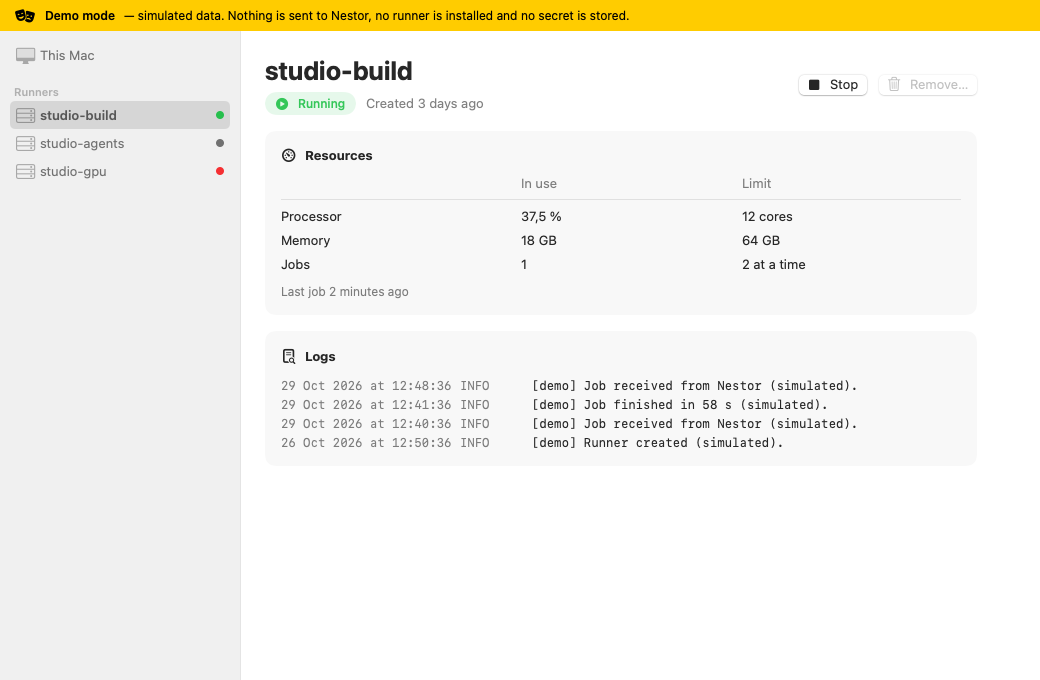
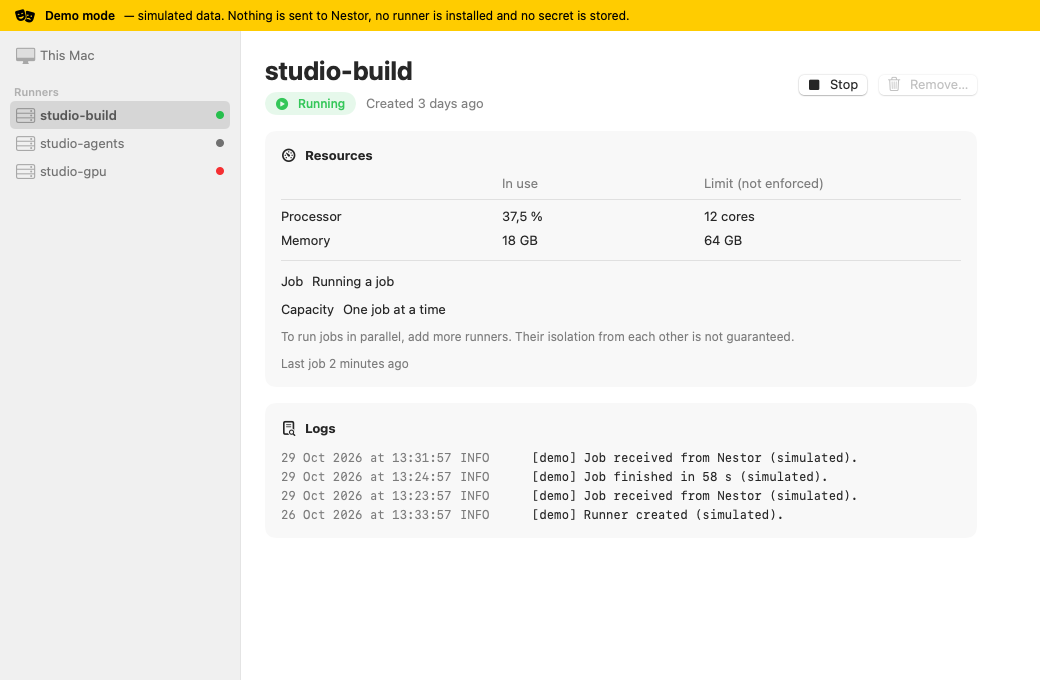
KCA-690: a runner takes one job at a time, as the Nestor runner does
The existing Nestor runner takes no new job while one is running, so the
"jobs at a time" setting, the concurrent-jobs limit and the active-jobs
counter are gone from the models, the add-runner form, the runner page,
the demo data and the tests. The runner page shows whether the runner
is running a job and a fixed "One job at a time" capacity; parallel work
means more runners, whose isolation is not guaranteed. Processor and
memory limits are labelled as not enforced in the demo. Docs and
screenshots updated.

diff --git a/apps/macos/Sources/RunnerManagerKit/Models.swift b/apps/macos/Sources/RunnerManagerKit/Models.swift
@@ -55,15 +55,16 @@ public enum RunnerState: String, Equatable, Sendable, CaseIterable {
 }
 
 /// Resource limits a runner is configured with. `nil` means no limit.
+///
+/// There is no setting for the number of jobs: the Nestor runner takes no new job while one is
+/// running. To run jobs in parallel, a machine runs several runners. A job may use several cores.
 public struct ResourceLimits: Equatable, Sendable {
     public var cpuCores: Int?
     public var memoryBytes: UInt64?
-    public var concurrentJobs: Int
 
-    public init(cpuCores: Int? = nil, memoryBytes: UInt64? = nil, concurrentJobs: Int = 1) {
+    public init(cpuCores: Int? = nil, memoryBytes: UInt64? = nil) {
         self.cpuCores = cpuCores
         self.memoryBytes = memoryBytes
-        self.concurrentJobs = concurrentJobs
     }
 }
 
@@ -71,12 +72,13 @@ public struct ResourceLimits: Equatable, Sendable {
 public struct ResourceUsage: Equatable, Sendable {
     public var cpuPercent: Double
     public var memoryBytes: UInt64
-    public var activeJobs: Int
+    /// Whether the runner is running its job; it never runs more than one.
+    public var isRunningJob: Bool
 
-    public init(cpuPercent: Double = 0, memoryBytes: UInt64 = 0, activeJobs: Int = 0) {
+    public init(cpuPercent: Double = 0, memoryBytes: UInt64 = 0, isRunningJob: Bool = false) {
         self.cpuPercent = cpuPercent
         self.memoryBytes = memoryBytes
-        self.activeJobs = activeJobs
+        self.isRunningJob = isRunningJob
     }
 
     public static let idle = ResourceUsage()

diff --git a/apps/macos/Sources/NestorRunnerManager/AddRunnerSheet.swift b/apps/macos/Sources/NestorRunnerManager/AddRunnerSheet.swift
@@ -22,7 +22,7 @@ struct AddRunnerSheet: View {
                     Text("Shown in Nestor, where you assign workspaces to this runner.")
                         .foregroundStyle(.secondary)
                 }
-                Section("Resources") {
+                Section {
                     Toggle("Limit processor", isOn: $form.limitsCPU)
                     if form.limitsCPU {
                         Stepper("\(form.cpuCores) cores", value: $form.cpuCores, in: 1...64)
@@ -31,7 +31,16 @@ struct AddRunnerSheet: View {
                     if form.limitsMemory {
                         Stepper("\(form.memoryGiB) GB", value: $form.memoryGiB, in: 1...512)
                     }
-                    Stepper("\(form.concurrentJobs) job\(form.concurrentJobs == 1 ? "" : "s") at a time", value: $form.concurrentJobs, in: 1...16)
+                } header: {
+                    Text("Resources")
+                } footer: {
+                    VStack(alignment: .trailing, spacing: 4) {
+                        Text("A runner takes one job at a time; a job may use several cores. To run jobs in parallel, add more runners — their isolation from each other is not guaranteed.")
+                        if model.isDemo {
+                            Text("Demo: limits are recorded, not enforced.")
+                        }
+                    }
+                    .foregroundStyle(.secondary)
                 }
                 Section {
                     Toggle("Start the runner now", isOn: $form.startNow)

diff --git a/apps/macos/Sources/NestorRunnerManager/RunnerDetailView.swift b/apps/macos/Sources/NestorRunnerManager/RunnerDetailView.swift
@@ -88,7 +88,7 @@ struct RunnerDetailView: View {
                 GridRow {
                     Text("").gridColumnAlignment(.leading)
                     Text("In use").foregroundStyle(.secondary)
-                    Text("Limit").foregroundStyle(.secondary)
+                    Text(model.isDemo ? "Limit (not enforced)" : "Limit").foregroundStyle(.secondary)
                 }
                 Divider()
                 GridRow {
@@ -101,12 +101,13 @@ struct RunnerDetailView: View {
                     Text(Format.bytes(runner.usage.memoryBytes))
                     Text(runner.limits.memoryBytes.map(Format.bytes) ?? "No limit")
                 }
-                GridRow {
-                    Text("Jobs")
-                    Text("\(runner.usage.activeJobs)")
-                    Text("\(runner.limits.concurrentJobs) at a time")
-                }
             }
+            Divider()
+            InfoRow(label: "Job", value: runner.usage.isRunningJob ? "Running a job" : "Idle")
+            InfoRow(label: "Capacity", value: "One job at a time")
+            Text("To run jobs in parallel, add more runners. Their isolation from each other is not guaranteed.")
+                .font(.callout)
+                .foregroundStyle(.secondary)
             if let lastJob = runner.lastJobAt {
                 Text("Last job \(Format.relative(lastJob))")
                     .font(.callout)

diff --git a/apps/macos/Sources/RunnerManagerKit/DemoRunnerService.swift b/apps/macos/Sources/RunnerManagerKit/DemoRunnerService.swift
@@ -171,15 +171,15 @@ public actor DemoRunnerService: RunnerService {
         let build = Runner(
             name: "studio-build",
             state: .running,
-            limits: ResourceLimits(cpuCores: 12, memoryBytes: 64 * gib, concurrentJobs: 2),
-            usage: ResourceUsage(cpuPercent: 37.5, memoryBytes: 18 * gib, activeJobs: 1),
+            limits: ResourceLimits(cpuCores: 12, memoryBytes: 64 * gib),
+            usage: ResourceUsage(cpuPercent: 37.5, memoryBytes: 18 * gib, isRunningJob: true),
             createdAt: ago(86_400 * 3),
             lastJobAt: ago(120)
         )
         let agents = Runner(
             name: "studio-agents",
             state: .stopped,
-            limits: ResourceLimits(cpuCores: 8, memoryBytes: 32 * gib, concurrentJobs: 1),
+            limits: ResourceLimits(cpuCores: 8, memoryBytes: 32 * gib),
             createdAt: ago(86_400 * 2),
             lastJobAt: ago(7_200)
         )
@@ -187,7 +187,7 @@ public actor DemoRunnerService: RunnerService {
             name: "studio-gpu",
             state: .failed,
             failureReason: "Simulated failure: the runner exited with status 1.",
-            limits: ResourceLimits(memoryBytes: 48 * gib, concurrentJobs: 1),
+            limits: ResourceLimits(memoryBytes: 48 * gib),
             createdAt: ago(86_400),
             lastJobAt: ago(5_400)
         )

diff --git a/apps/macos/Tests/RunnerManagerKitTests/DemoRunnerServiceTests.swift b/apps/macos/Tests/RunnerManagerKitTests/DemoRunnerServiceTests.swift
@@ -37,7 +37,7 @@ import Testing
 
     @Test func addedRunnerKeepsItsLimitsAndCanStayStopped() async throws {
         let demo = service(.empty)
-        let limits = ResourceLimits(cpuCores: 2, memoryBytes: 8 << 30, concurrentJobs: 3)
+        let limits = ResourceLimits(cpuCores: 2, memoryBytes: 8 << 30)
         let runner = try await demo.addRunner(NewRunnerRequest(name: "  ci  ", limits: limits, startNow: false))
         #expect(runner.name == "ci")
         #expect(runner.limits == limits)
@@ -77,6 +77,14 @@ import Testing
         await #expect(throws: RunnerServiceError.runnerNotFound) {
             try await demo.logs(runnerID: runner.id, limit: 10)
         }
+    }
+
+    @Test func onlyARunningRunnerIsRunningAJob() async throws {
+        let demo = service()
+        let runners = try await demo.runners()
+        #expect(runners.filter(\.usage.isRunningJob).map(\.state) == [.running])
+        let busy = try #require(runners.first { $0.usage.isRunningJob })
+        #expect(try await demo.stop(runnerID: busy.id).usage.isRunningJob == false)
     }
 
     @Test func startingAFailedRunnerClearsItsFailure() async throws {

diff --git a/apps/macos/Sources/RunnerManagerKit/AddRunnerForm.swift b/apps/macos/Sources/RunnerManagerKit/AddRunnerForm.swift
@@ -14,7 +14,6 @@ public final class AddRunnerForm {
     public var cpuCores = 4
     public var limitsMemory = false
     public var memoryGiB = 16
-    public var concurrentJobs = 1
     public var startNow = true
 
     public private(set) var isSubmitting = false
@@ -48,8 +47,7 @@ public final class AddRunnerForm {
             name: name,
             limits: ResourceLimits(
                 cpuCores: limitsCPU ? cpuCores : nil,
-                memoryBytes: limitsMemory ? UInt64(memoryGiB) << 30 : nil,
-                concurrentJobs: concurrentJobs
+                memoryBytes: limitsMemory ? UInt64(memoryGiB) << 30 : nil
             ),
             startNow: startNow
         )

diff --git a/apps/macos/Tests/RunnerManagerKitTests/AddRunnerFormTests.swift b/apps/macos/Tests/RunnerManagerKitTests/AddRunnerFormTests.swift
@@ -76,11 +76,10 @@ private actor GatedRunnerService: RunnerService {
         form.name = "ci"
         form.limitsMemory = true
         form.memoryGiB = 32
-        form.concurrentJobs = 2
         form.startNow = false
         #expect(form.request == NewRunnerRequest(
             name: "ci",
-            limits: ResourceLimits(cpuCores: nil, memoryBytes: 32 << 30, concurrentJobs: 2),
+            limits: ResourceLimits(cpuCores: nil, memoryBytes: 32 << 30),
             startNow: false
         ))
     }

diff --git a/apps/macos/Sources/NestorRunnerManager/Snapshots.swift b/apps/macos/Sources/NestorRunnerManager/Snapshots.swift
@@ -42,7 +42,6 @@ enum Snapshots {
         form.name = "studio-ci"
         form.limitsMemory = true
         form.memoryGiB = 32
-        form.concurrentJobs = 2
         return form
     }
 

diff --git a/README.md b/README.md
@@ -10,8 +10,10 @@ A desktop application to add, start, stop, remove and diagnose the Nestor runner
 
 - **This Mac**: the machine, its association with Nestor and a summary of its runners.
 - **Runners**: the list in the sidebar, with each runner's state.
-- **A runner's page**: state, resources in use against their limits, start / stop / remove actions and the logs.
-- **Add a runner**: a name, optional processor and memory limits, jobs at a time, and whether to start it now.
+- **A runner's page**: state, resources in use against their limits, whether it is running a job, start / stop / remove actions and the logs.
+- **Add a runner**: a name, optional processor and memory limits, and whether to start it now.
+
+A runner takes **one job at a time**, as the existing Nestor runner does; a job may use several processor cores. To run jobs in parallel, add more runners — their isolation from each other is not guaranteed. In the demo, the processor and memory limits are recorded but not enforced.
 - Loading, empty, not-associated and error states.
 
 Workspaces are not assigned here: on the Nestor web app, a workspace is assigned to a runner or a pool of runners. The interface never asks for a password or a token; in the real version, the association is confirmed in the browser and Nestor issues each runner its own credential.

diff --git a/docs/architecture.md b/docs/architecture.md
@@ -40,3 +40,4 @@ How that implementation reaches the core is not decided yet: calling a command-l
 - No workspace is assigned locally: that happens on the Nestor web app.
 - Every simulated command and log line says so (`[demo]`, “Simulated”), and the demo banner cannot be hidden.
 - A runner must be stopped before it is removed.
+- A runner takes one job at a time, like the existing Nestor runner: there is no setting for the number of jobs, and parallel work means several runners, whose isolation from each other is not guaranteed. Processor and memory limits are not enforced in the demo.
